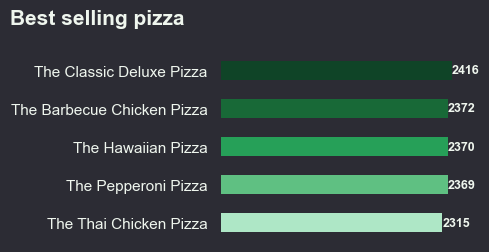
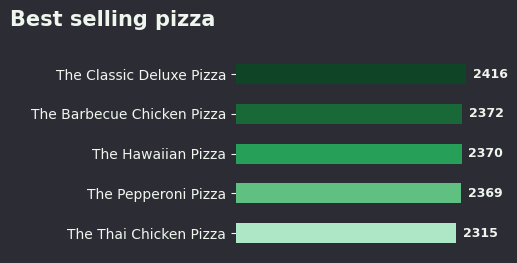
added padding to barchart labels

diff --git a/projects/pizzeria-data-analysis/src/plots.py b/projects/pizzeria-data-analysis/src/plots.py
@@ -13,7 +13,7 @@ def BarChart(figsize, df, x, y, palette, bar_width, title, title_x):
     fig, ax = plt.subplots(figsize=(figsize))
     sns.barplot(df, x=x, y=y, palette=palette, width=bar_width, )
     for container in ax.containers:
-        ax.bar_label(container, fontsize=9, fontweight="bold")
+        ax.bar_label(container, fontsize=9, fontweight="bold", padding=5)
     plt.title(title, fontsize=15, color="#EFF6EE", x=title_x, y=1.1, fontweight="bold")
     plt.xlabel("")
     plt.ylabel("")
@@ -74,7 +74,7 @@ sns.set_style(rc={"figure.facecolor": "#2C2C34",
 #Total orders
 #Average number of pizzas per order
 df = pd.read_csv("../data/raw/pizza_sales.csv")
-total_revenue = df["total_price"].sum()
+total_revenue = round(df["total_price"].sum(), 2)
 avg_order_value = df.groupby("order_id")["total_price"].sum().mean()
 total_sold = df["quantity"].sum()
 total_orders = len(df.groupby("order_id"))
